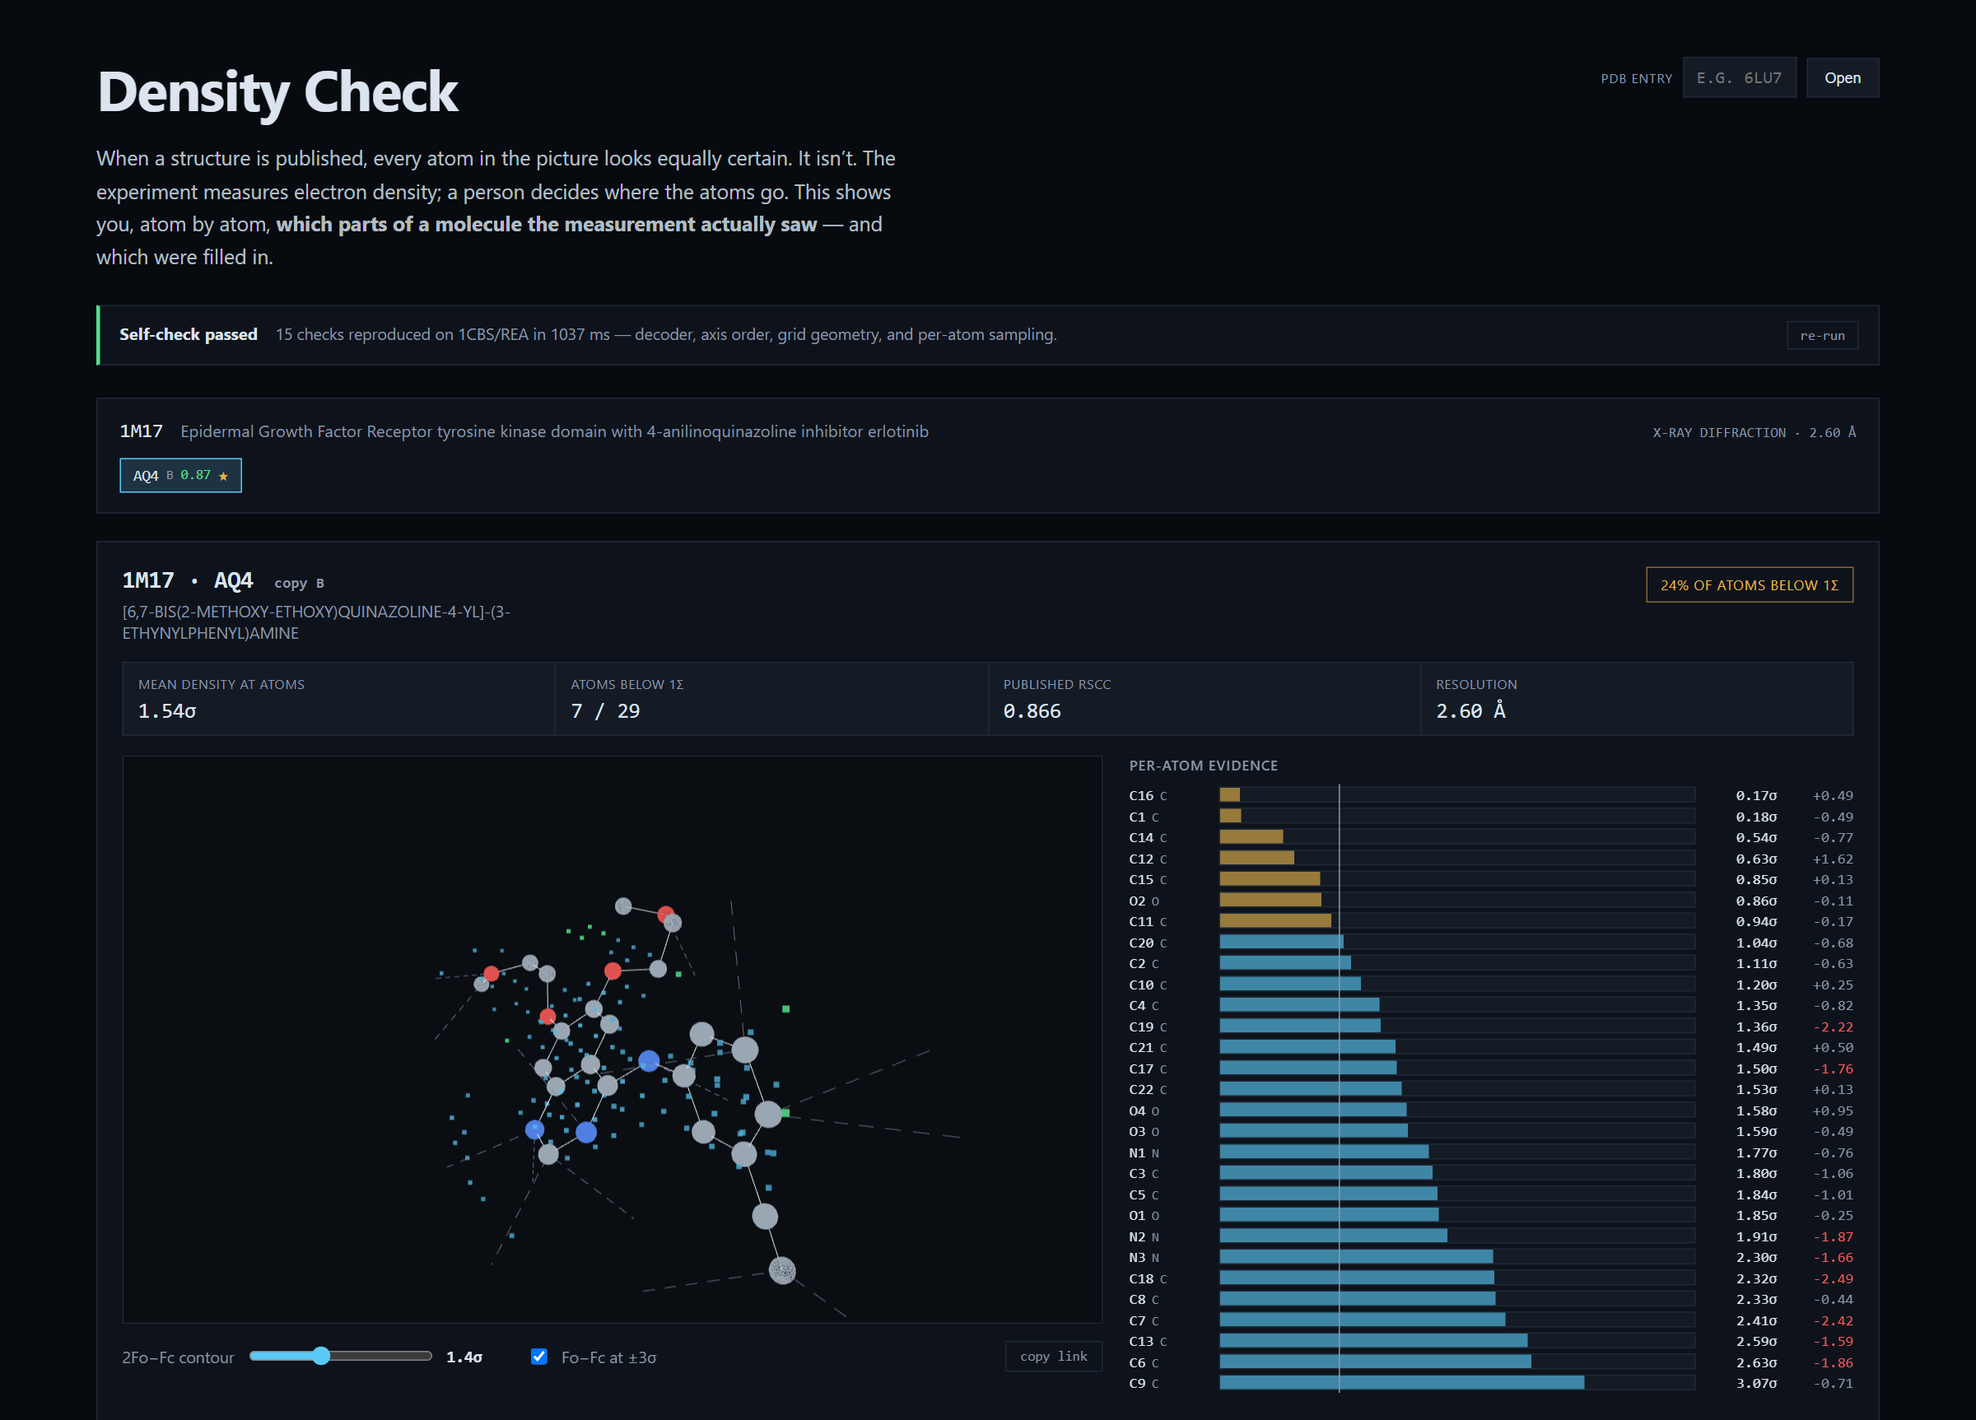
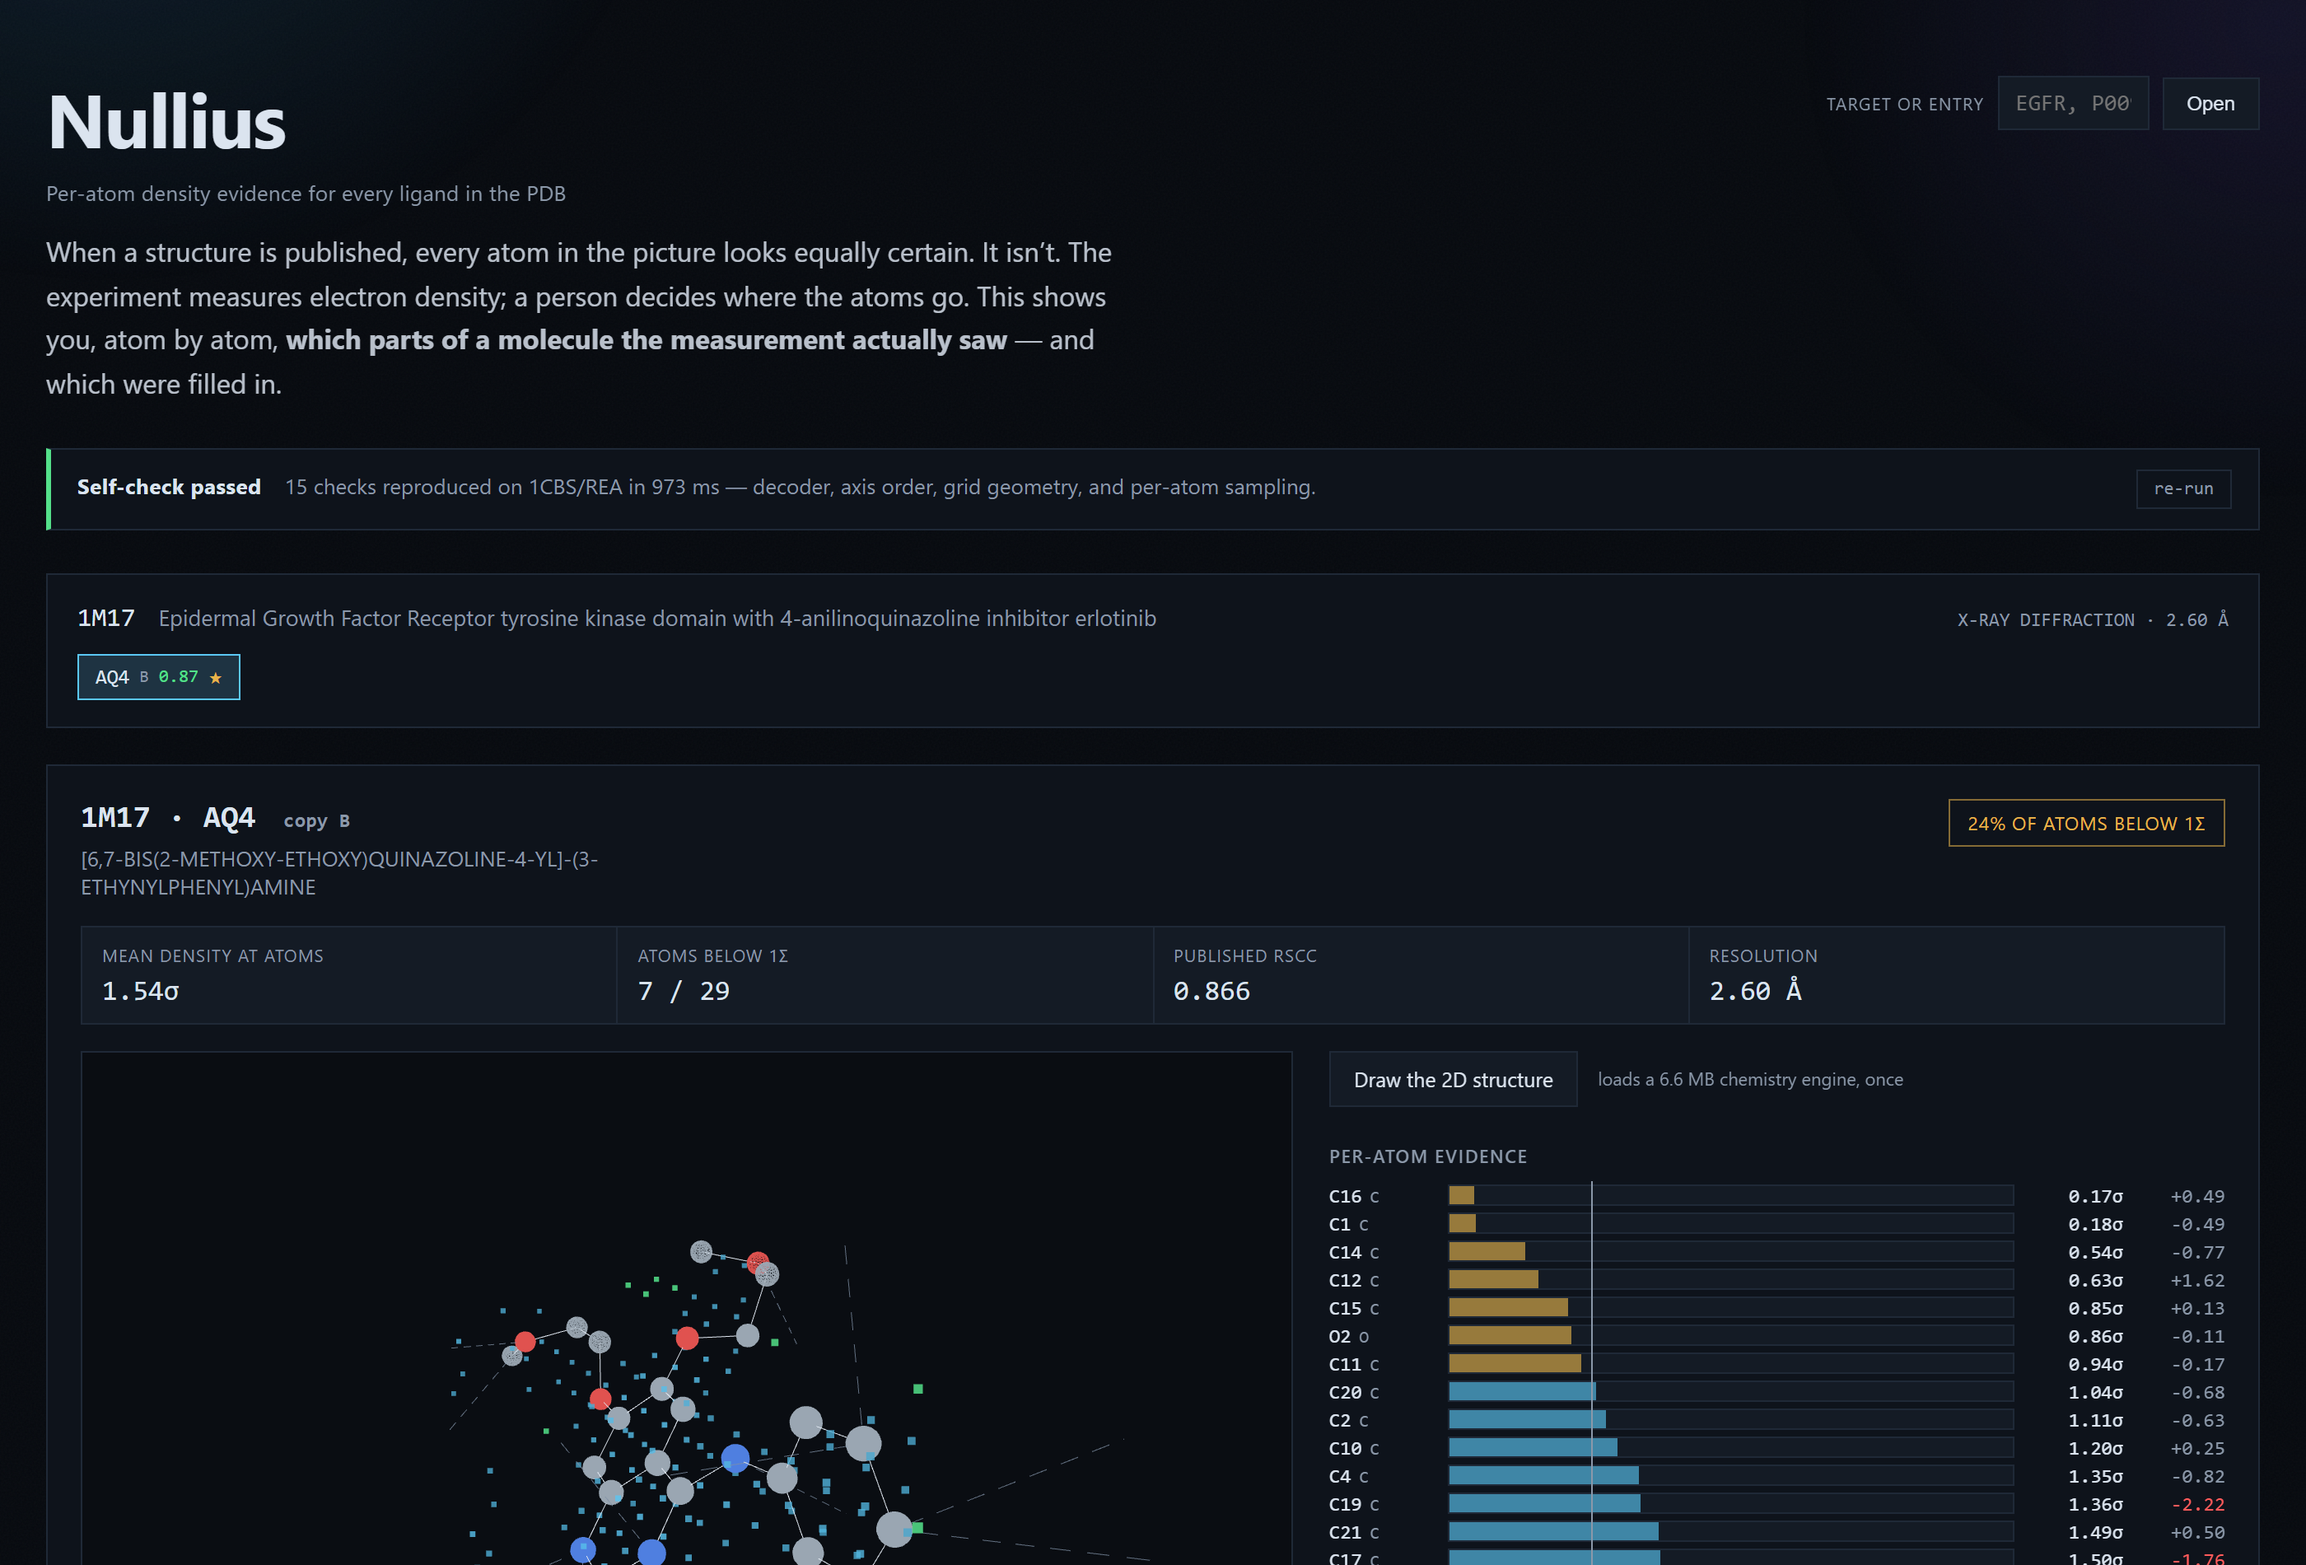
say what the thing is, and show what it looks like
The subtitle was a Latin motto translated -- clever, and it told a
first-time reader nothing. It now says what the app does: per-atom
density evidence for every ligand in the PDB. The name still carries
the motto; the subtitle carries the meaning. Dropped the lowercasing
with it, since the line is now a sentence containing a proper noun.

Every screenshot still showed the old name, so all of them are
recaptured from the current build -- landing steps, README hero,
coverage map, depiction.

One real bug the new screenshots exposed: the coverage lead asserted
"but not evenly" unconditionally. Carbonic anhydrase 2 is 260 residues
solved 1,249 times over, so its peak and median coverage are both
1,249 -- perfectly even, under a sentence insisting otherwise. It now
branches, and says plainly when a protein is covered end to end.

diff --git a/src/components/CoverageMap.tsx b/src/components/CoverageMap.tsx
@@ -174,13 +174,26 @@ export function CoverageMap({ accession, ligands, variant = 'panel' }: Props) {
 
       <p className="cov-lead">
         {coverage && stats ? (
-          <>
-            {coverage.spans.length.toLocaleString()} experimental structures cover this protein
-            {coverage.xrayCount ? ` (${coverage.xrayCount.toLocaleString()} by X-ray)` : ''}, but not evenly:
-            residue <b>{stats.peakResidue}</b> has been solved <b>{stats.peak.toLocaleString()}</b> times over,
-            while the median residue appears in <b>{stats.median.toLocaleString()}</b>.
-            {stats.peak > stats.median * 8 && ' Attention is concentrated in a small part of the sequence; everywhere else, the prediction is effectively what is known.'}
-          </>
+          stats.peak > stats.median * 1.5 ? (
+            <>
+              {coverage.spans.length.toLocaleString()} experimental structures cover this protein
+              {coverage.xrayCount ? ` (${coverage.xrayCount.toLocaleString()} by X-ray)` : ''}, but not evenly:
+              residue <b>{stats.peakResidue}</b> has been solved <b>{stats.peak.toLocaleString()}</b> times over,
+              while the median residue appears in <b>{stats.median.toLocaleString()}</b>.
+              {stats.peak > stats.median * 8 && ' Attention is concentrated in a small part of the sequence; everywhere else, the prediction is effectively what is known.'}
+            </>
+          ) : (
+            // Claiming unevenness where there is none would be exactly the kind
+            // of unearned assertion this tool exists to catch. A small protein
+            // solved many times over is covered end to end, and that is worth
+            // saying plainly.
+            <>
+              {coverage.spans.length.toLocaleString()} experimental structures cover this protein
+              {coverage.xrayCount ? ` (${coverage.xrayCount.toLocaleString()} by X-ray)` : ''}, and evenly:
+              the median residue appears in <b>{stats.median.toLocaleString()}</b> of them. Almost nothing
+              here rests on prediction.
+            </>
+          )
         ) : 'Loading experimental coverage…'}
       </p>
 

diff --git a/src/App.tsx b/src/App.tsx
@@ -196,7 +196,7 @@ export default function App() {
         <div className="masthead-row">
           <div>
             <h1><a href="#" onClick={() => navigate({ entry: null, comp: null, asymId: null, target: null, compare: null })}>Nullius</a></h1>
-            <p className="motto" title="Nullius in verba — the Royal Society's motto since 1660">take nobody’s word for it</p>
+            <p className="motto" title="Nullius in verba — the Royal Society's motto since 1660">Per-atom density evidence for every ligand in the PDB</p>
             <p className="lede">
               When a structure is published, every atom in the picture looks equally certain.
               It isn’t. The experiment measures electron density; a person decides where the atoms go.
@@ -325,6 +325,7 @@ export default function App() {
     </div>
   );
 }
+
 
 
 

diff --git a/src/styles.css b/src/styles.css
@@ -326,9 +326,11 @@ body > #root::before {
 .gallery-card--target .gallery-id { font-size: 15px; }
 
 /* ── masthead motto ───────────────────────────────────────────────── */
+/* A subtitle, not a motto: it is a sentence with a proper noun in it, so no
+   lowercasing and no italics. */
 .motto {
-  margin: -6px 0 14px; font-size: 12px; letter-spacing: 0.1em; text-transform: lowercase;
-  color: var(--muted); font-style: italic;
+  margin: -6px 0 14px; font-size: 13px; letter-spacing: 0.01em;
+  color: var(--muted);
 }
 
 /* ── table filters ────────────────────────────────────────────────── */

diff --git a/README.md b/README.md
@@ -1,26 +1,27 @@
-# Density Check
+# Nullius
 
-**What did the experiment actually see?**
+**Per-atom density evidence for every ligand in the PDB.**
 
 When a structure is published, every atom in the picture looks equally certain. It isn't.
 A crystallographic experiment measures *electron density* — a cloud. A person decides where
 the atoms go inside that cloud. Usually they are right. Sometimes the density supports part
 of a molecule and the rest is a reasonable guess, and the guess becomes a citable fact.
 
-Density Check shows you, atom by atom, which parts of a modelled molecule the measurement
-supports — and which were filled in.
+Nullius shows you, atom by atom, which parts of a modelled molecule the measurement
+supports — and which were filled in. Named for `nullius in verba` — take nobody's word for it.
 
 <p align="center">
-  <img src="docs/media/compare.png" alt="Two ligands side by side: retinoic acid threading through a dense measured electron-density cloud, and N-acetylglucosamine floating in near-empty space with hollow unsupported atoms" width="900">
+  <img src="docs/media/target.png" alt="Nullius showing carbonic anhydrase 2: coverage map, and every ligand ever modelled into it ranked worst-evidence-first" width="900">
 </p>
 
-Left: retinoic acid in 1CBS — the measured density traces the molecule, every atom above 1σ,
-published RSCC 0.949. Right: a glycosylation-site N-acetylglucosamine in 13FL — 21% of its atoms
-sit below 1σ, O4 sits at 0.0σ with −1.8σ of *negative* difference density under it, published
-RSCC 0.503. Same code, same pipeline, opposite verdict.
+Paste a protein and get every ligand ever modelled into it, ranked worst-evidence-first. Open one
+and the electron density is fetched and decoded in your browser, then sampled at every atom.
+Retinoic acid in 1CBS has every atom above 1σ (RSCC 0.949); a glycosylation sugar in 13FL has 21%
+of its atoms below 1σ, with O4 sitting at 0.0σ over −1.8σ of *negative* difference density (RSCC
+0.503). Same code, same pipeline, opposite verdict.
 
 **Type any PDB entry** and every ligand in it is listed worst-supported first. A worked example:
-erlotinib in the EGFR kinase ([`#1m17/AQ4/B`](https://bpachter.github.io/density-check/#1m17/AQ4/B))
+erlotinib in the EGFR kinase ([`#1m17/AQ4/B`](https://bpachter.github.io/nullius/#1m17/AQ4/B))
 has a published RSCC of 0.866 — respectable — but the per-atom view shows its two
 methoxy-ethoxy tail carbons at **0.17σ and 0.18σ** while the quinazoline core sits at 2–3σ. The
 solubilising side chain is disordered and the core is solid, which is exactly what a
@@ -238,3 +239,4 @@ emit-only change; the 1-D version ships first and the confound is visible in the
 ## Licence
 
 MIT. Data from RCSB PDB under CC0 1.0.
+
